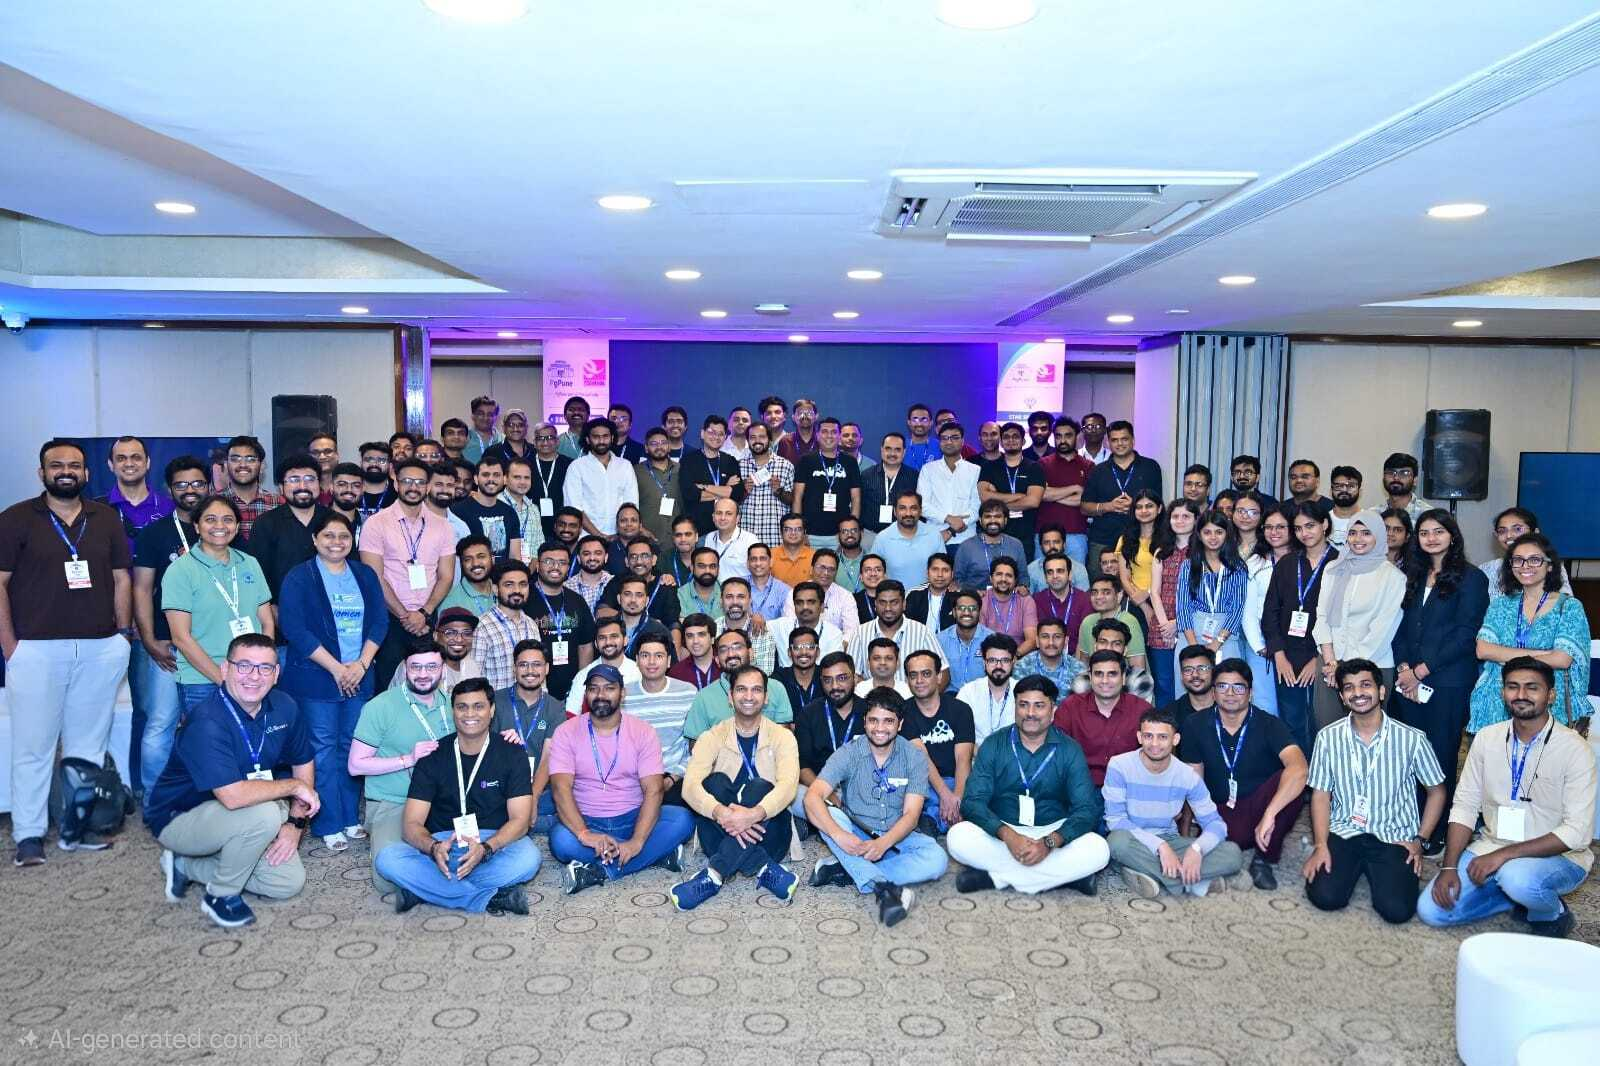
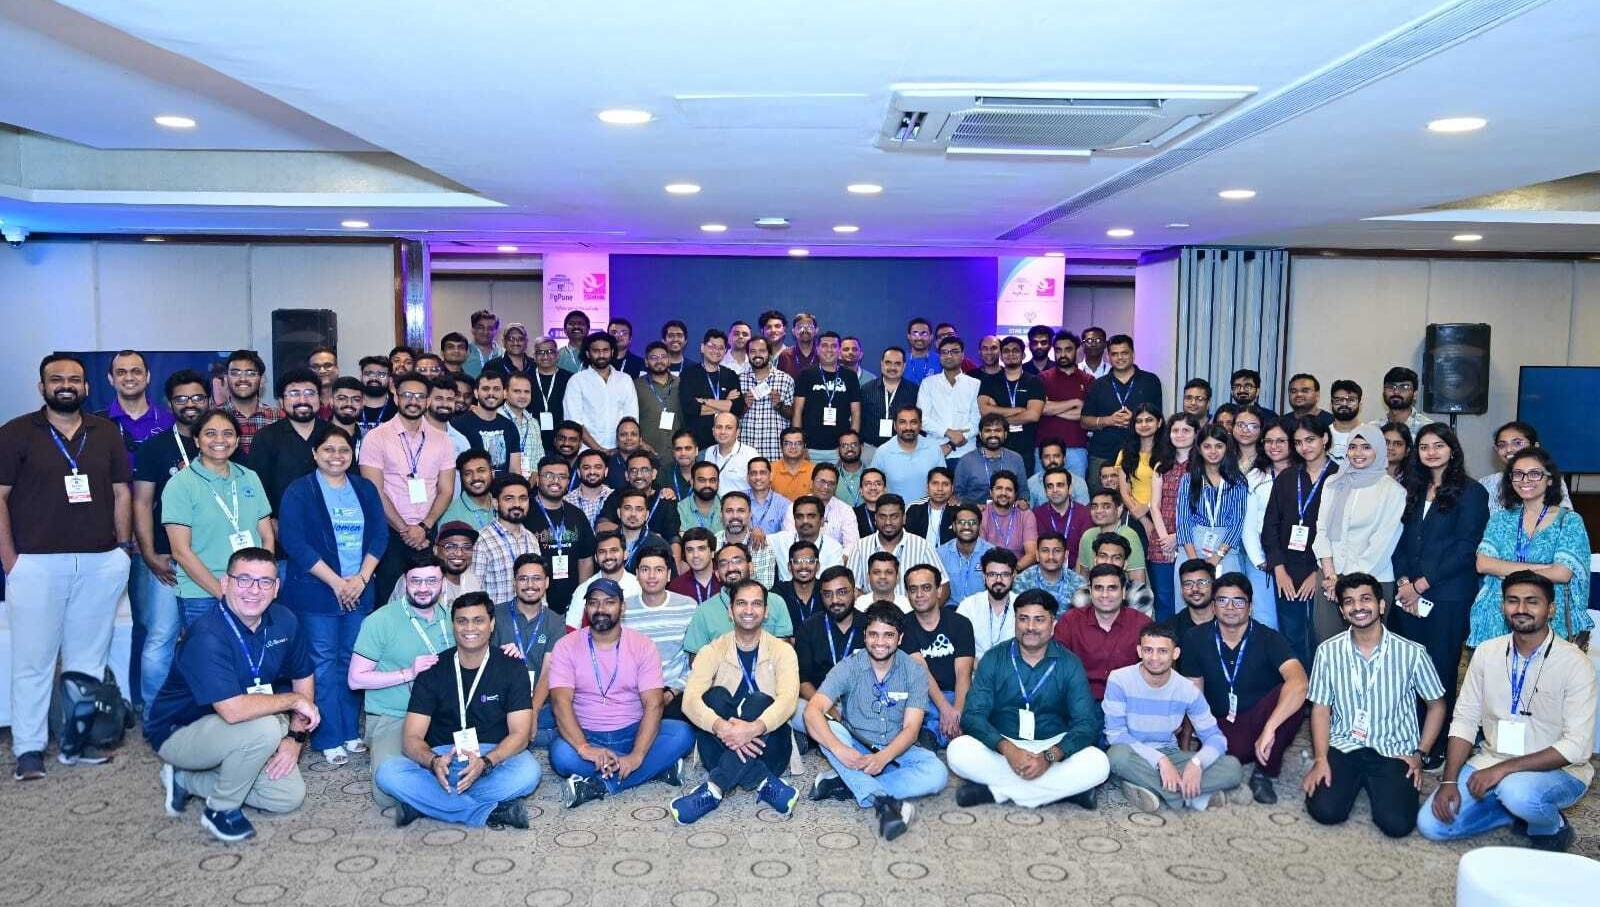
🔧 Add event #6 images

diff --git a/layouts/events/single.html b/layouts/events/single.html
@@ -24,7 +24,7 @@
 <section class="block"><div class="wrap">
   <ul class="facts facts--page" aria-label="Event facts">
     <li class="fact"><span class="fact__k">Date</span><span class="fact__v">{{ $date | default "TBA" }}</span><span class="fact__sub">{{ $start.Format "Monday" }}</span></li>
-    <li class="fact"><span class="fact__k">Event Timings</span><span class="fact__v">{{ $start.Format "15:04" }} — {{ $end.Format "15:04" }}</span><span class="fact__sub">Followed by Dinner</span></li>
+    <li class="fact"><span class="fact__k">Event Timings</span><span class="fact__v">{{ $start.Format "15:04" }} — {{ $end.Format "15:04" }}</span></li>
     <li class="fact"><span class="fact__k">Venue</span>
       {{ if $ev.venueMapURL }}<a class="fact--link" href="{{ $ev.venueMapURL | relURL }}" target="_blank">{{ end }}
       <span class="fact__v fact__v--highlight {{ if not $venue }} fact__v--tba{{ end }}">{{ $venue | default "To be announced" }}</span>
@@ -55,14 +55,14 @@
   </ul>
 </div></section>
 
-{{- with (index .Params "cover-img") }}{{ if resources.Get . }}
+{{- with (index .Params "cover-img") }}
 <section class="block"><div class="wrap">
   <figure class="ev-group">
     {{ partial "img.html" (dict "src" . "sizes" "(max-width:1000px) 92vw, 1000px" "class" "ev-group__img"
        "alt" (printf "Postgres Pune Event #%v group photo — %s" $.Params.number $.Params.host)) }}
   </figure>
 </div></section>
-{{- end }}{{ end }}
+{{ end }}
 
 {{- if $speakers }}
 <section class="block"><div class="wrap">

diff --git a/content/events/6.md b/content/events/6.md
@@ -6,7 +6,120 @@ date: "2026-10-09"
 cover-img: "images/events/6/group-pic.jpeg"
 schedule-img: ""
 summary: "🗓 October 9, 2026 📍 St Laurn - Koregaon Park"
+talk_selection:
+  - name: "Nikhil Sontakke"
+    linkedin: https://www.linkedin.com/in/nikhilsontakke/
+    photo: "/images/talk_selection/nikhil-sontakke.jpeg"
+  - name: "Beena Emerson"
+    linkedin: https://www.linkedin.com/in/mbeenaemerson/
+    photo: "/images/talk_selection/beena-emerson.jpeg"
+  - name: "Jay Sudrik"
+    linkedin: https://www.linkedin.com/in/jay-sudrik-6b35962/
+    photo: "/images/talk_selection/jay-sudrik.png"
+code_of_conduct:
+  - name: "Khushboo Vashi"
+    linkedin: https://www.linkedin.com/in/khushboo-vashi-b8303012/
+    photo: "/images/code_of_conduct/khushboo-vashi.jpeg"
+  - name: "Hari Kiran"
+    linkedin: https://www.linkedin.com/in/hari-kiran-pg/
+    photo: "/images/code_of_conduct/hari-kiran.png"
+  - name: "Piyush Newe"
+    linkedin: https://www.linkedin.com/in/piyush-newe-b56b9115/
+    photo: "/images/code_of_conduct/piyush-newe.jpeg"
+team:
+  - name: "Ashesh Vashi"
+    linkedin: https://www.linkedin.com/in/asheshvashi/
+    photo: "images/events/6/team/ashesh-vashi.jpeg"
+  - name: "Khushboo Vashi"
+    linkedin: https://www.linkedin.com/in/khushboo-vashi-b8303012/
+    photo: "/images/code_of_conduct/khushboo-vashi.jpeg"
+  - name: "Pavan Deolasee"
+    linkedin: "https://www.linkedin.com/in/pavandeolasee/"
+    photo: "images/events/6/team/pavan-deolasee.jpeg"
+  - name: "Aarti Nadekar"
+    linkedin: https://www.linkedin.com/in/aarti-nr-pwi
+    photo: "images/events/6/team/arti-nadekar.jpeg"
+  - name: "Nivedita Jha"
+    linkedin: https://www.linkedin.com/in/nivedita-jha-950162429/
+    photo: "images/events/6/team/nivedita-jha.jpeg"
+  - name: "Insheera Shaikh"
+    linkedin: https://www.linkedin.com/in/insheera-shaikh-54a390428/
+    photo: "images/events/6/team/insheera-shaikh.jpeg"
+  - name: "Yogesh Jain"
+    linkedin: https://www.linkedin.com/in/yogeshjain96/
+    photo: "images/speakers/icons/yogesh-jain.jpeg"
+sponsors:
+  - name: "PGConf India Diamond Sponsors"
+    class: "diamond"
+    sponsors:
+      - name: "AWS"
+        logo: "/images/sponsors/aws.png"
+        height: 70
+        logo-dark: "/images/sponsors/aws-dark.svg"
+        height-dark: 45
+        url: "https://aws.amazon.com/"
+      - name: "EDB"
+        logo: "/images/sponsors/edb.svg"
+        logo-dark: "/images/sponsors/edb-dark.svg"
+        url: "https://www.enterprisedb.com/"
+        height: 45
+      - name: "Google Cloud"
+        logo: "/images/sponsors/google-cloud.png"
+        url: "https://cloud.google.com/"
+        height: 40
+      - name: "Microsoft"
+        logo: "/images/sponsors/microsoft.png"
+        url: "https://www.microsoft.com/"
+        height: 50
+  - name: "Star Sponsors"
+    class: "star"
+    sponsors:
+      - name: "Supabase"
+        logo: "/images/sponsors/supabase.png"
+        logo-dark: "/images/sponsors/supabase-dark.png"
+        url: "https://supabase.com/"
+        height: 40
+  - name: "Gold Sponsors"
+    class: "gold"
+    sponsors:
+      - name: "Percona"
+        logo: "/images/sponsors/percona.svg"
+        logo-dark: "/images/sponsors/percona-dark.svg"
+        url: "https://www.percona.com/"
+        height: 35
+      - name: "Yugabyte"
+        logo: "/images/sponsors/yugabyte.png"
+        logo-dark: "/images/sponsors/yugabyte-dark.png"
+        url: "https://www.yugabyte.com/"
+        height: 30
+      - name: "Newt Global"
+        logo: "/images/sponsors/newtglobal.jpg"
+        url: "https://newtglobal.com/"
+        height: 60
+  - name: "Evening Dinner Sponsor"
+    class: "dinner"
+    sponsors:
+      - name: "CortexRidge"
+        logo: "/images/sponsors/cortextridge.png"
+        logo-dark: "/images/sponsors/cortextridge-dark.png"
+        url: "https://cortexridge.com/"
+        height: 35
 ---
+
+### Event Pics
+
+{{< slider >}}
+  /images/events/6/group-pic.jpeg|Group Pic @ PgPune Event #6
+  /images/events/6/img2.jpeg|Speaker @ PgPune Event #6
+  /images/events/6/vishal.jpeg|Speaker @ PgPune Event #6
+  /images/events/6/ashutosh-sharma.jpeg|Speaker @ PgPune Event #6
+  /images/events/6/hari.jpeg|Speaker @ PgPune Event #6
+  /images/events/6/devendra-saha.jpeg|Speaker @ PgPune Event #6
+  /images/events/6/img5.jpeg|@ PgPune Event #6
+  /images/events/6/img4.jpeg|@ PgPune Event #6
+  /images/events/6/img1.jpeg|@ PgPune Event #6
+  /images/events/6/img3.jpeg|@ PgPune Event #6
+{{< /slider >}}
 
 {{< sponsors >}}
 
